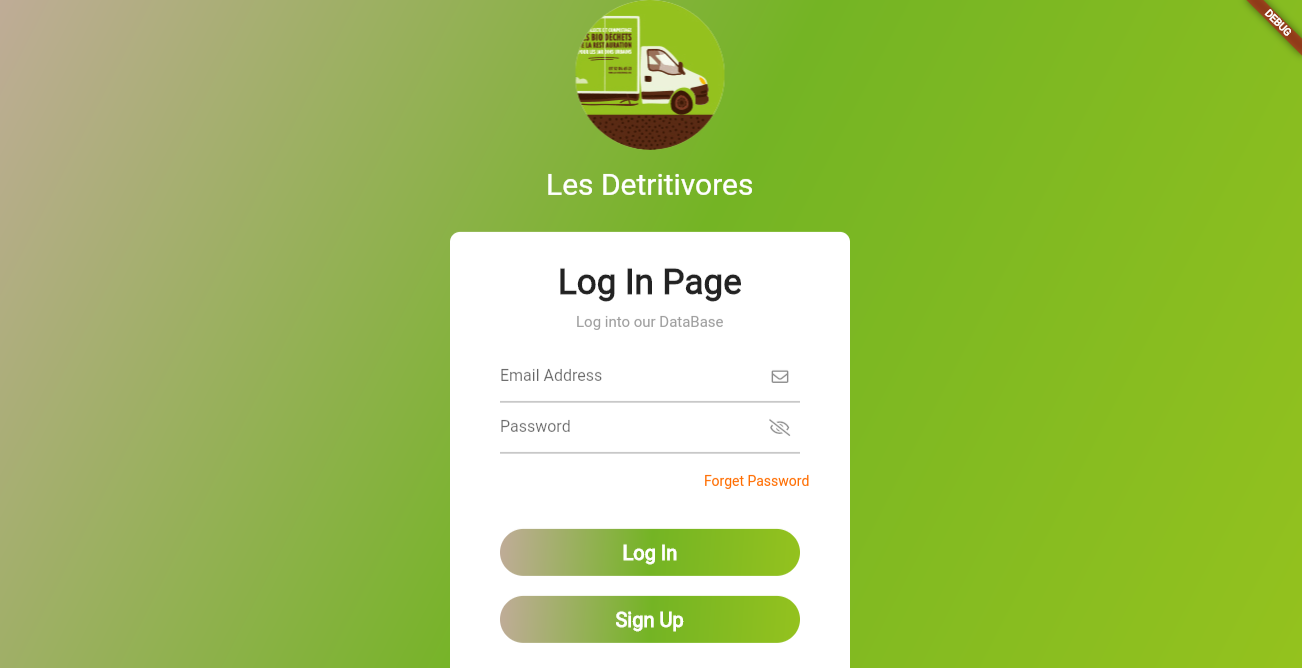
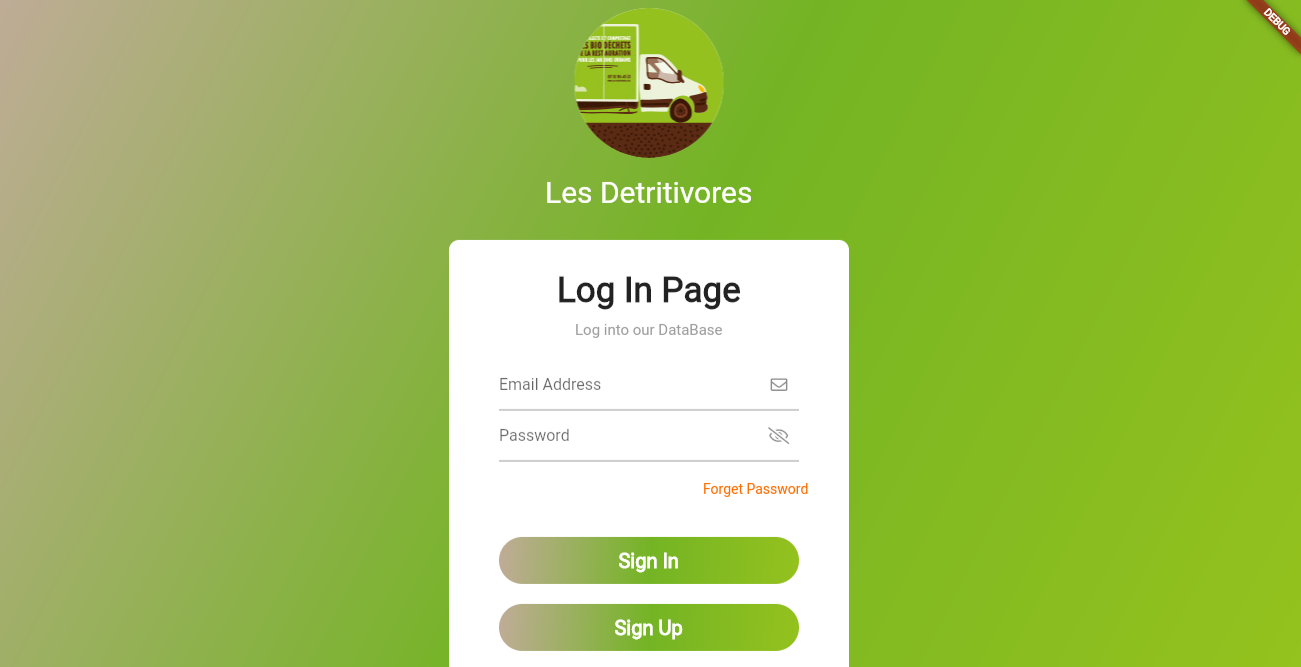
Log In and Home Screen

diff --git a/lib/login_page/login_page.dart b/lib/login_page/login_page.dart
@@ -2,6 +2,7 @@ import 'package:flutter/material.dart';
 import 'package:firebase_auth/firebase_auth.dart';
 import 'package:fluttertoast/fluttertoast.dart';
 import 'package:font_awesome_flutter/font_awesome_flutter.dart';
+import 'package:tn09_app_web_demo/home_screen.dart';
 
 class LoginPage extends StatefulWidget {
   @override
@@ -101,6 +102,11 @@ class _LoginPageState extends State<LoginPage> {
                               size: 17,
                             ),
                           ),
+                          onChanged: (value) {
+                            setState(() {
+                              _password = value.trim();
+                            });
+                          },
                         ),
                       ),
                       Padding(
@@ -119,6 +125,7 @@ class _LoginPageState extends State<LoginPage> {
                         height: 20,
                       ),
                       GestureDetector(
+                        onTap: () => _signin(_email, _password),
                         child: Container(
                           alignment: Alignment.center,
                           width: 300,
@@ -134,7 +141,7 @@ class _LoginPageState extends State<LoginPage> {
                                   ])),
                           child: Padding(
                             padding: EdgeInsets.all(12.0),
-                            child: Text('Log In',
+                            child: Text('Sign In',
                                 style: TextStyle(
                                   color: Colors.white,
                                   fontSize: 20,
@@ -178,5 +185,22 @@ class _LoginPageState extends State<LoginPage> {
         ),
       ),
     );
+  }
+
+  _signin(String _email, String _password) async {
+    try {
+      //Create Get Firebase Auth User
+      await auth.signInWithEmailAndPassword(email: _email, password: _password);
+
+      //Success
+      Fluttertoast.showToast(
+          msg: 'Sign In Successed', gravity: ToastGravity.TOP);
+      Navigator.of(context).pushReplacement(
+          MaterialPageRoute(builder: (context) => HomeScreen()));
+    } on FirebaseAuthException catch (error) {
+      //String msgerror = 'Error sign in';
+      Fluttertoast.showToast(
+          msg: (error.message).toString(), gravity: ToastGravity.TOP);
+    }
   }
 }

diff --git a/lib/home_screen.dart b/lib/home_screen.dart
@@ -1,0 +1,17 @@
+import 'package:firebase_auth/firebase_auth.dart';
+import 'package:flutter/material.dart';
+import 'package:tn09_app_web_demo/login_page/login_page.dart';
+import 'package:flutter/services.dart';
+
+class HomeScreen extends StatelessWidget {
+  final auth = FirebaseAuth.instance;
+  @override
+  Widget build(BuildContext context) {
+    // final applicationBloc = Provider.of<ApplicationBloc>(context);
+    return Scaffold(
+      appBar: AppBar(
+        title: Text('DataBase HomeScreen'),
+      ),
+    );
+  }
+}
